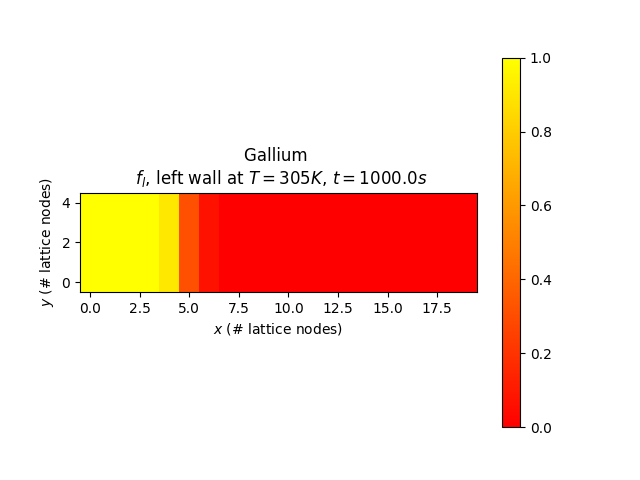
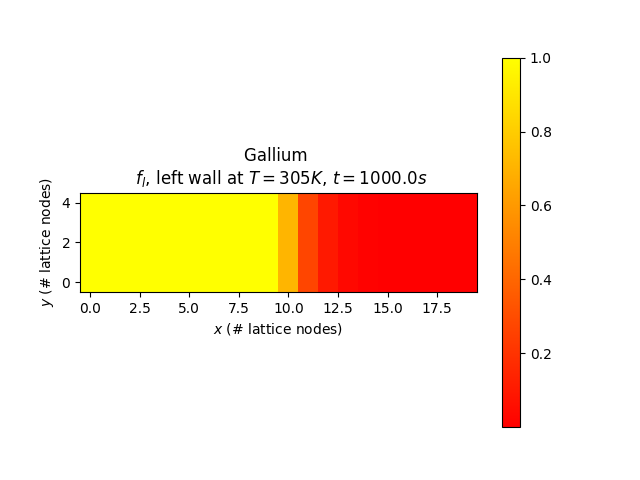
Commit 1 23apr

Changed region(s): [[0.2812, 0.4062, 0.5312, 0.625], [0.8125, 0.875, 0.875, 0.9062]]

diff --git a/hsource_stefan_fd_only.py b/hsource_stefan_fd_only.py
@@ -10,7 +10,7 @@ from numba import njit, jit
 np.set_printoptions(threshold=sys.maxsize)
 pd.set_option("display.max_rows", None, "display.max_columns", None)
 pd.set_option('display.expand_frame_repr', False)
-folder_nr = 'test2'
+folder_nr = '1d_stefan'
 
 # Define constants
 # # Physical parameters water
@@ -35,8 +35,8 @@ folder_nr = 'test2'
 # umax = np.sqrt(g * beta * (T_H - T0) * L)           # Maximal velocity
 
 # Physical parameters gallium
-Time = 1080         # (s)
-L = 0.0889             # Length of cavity (m)
+Time = 1000         # (s)
+L = 0.01             # Length of cavity (m)
 H = 0.714*L      # Height of cavity (m)
 g = 9.81            # Gravitational acceleration (m/s^2)
 rho0 = 6.093e3      # Density (kg/m^3)
@@ -47,13 +47,14 @@ beta = 1.2e-4       # Thermal expansion (1/K)
 Lat = 8.016e5       # Latent heat (J/kg)
 c_p = 381           # Specific heat (J/(kgK))
 alpha = lbda / (rho0 * c_p)     # Thermal diffusivity (m^2/s)
+print("a", alpha)
 Tm = 302.8          # Melting point (K)
 
 # Domain parameters
-T0 = 301.3          # Starting temperature (K)
-T_H = 311           # Hot wall temperature (K)
-T_C = 301.3         # Hot wall temperature (K)
-epsilon = 0.05 * (T_H - T_C)  # Width mushy zone (K)
+T0 = 302.67          # Starting temperature (K)
+T_H = 305           # Hot wall temperature (K)
+T_C = 301.3         # Cold wall temperature (K)
+epsilon = 0.05 * (T_H - Tm) # 0.05 * (T_H - T_C)  # Width mushy zone (K)
 umax = np.sqrt(g * beta * (T_H - T0) * H)           # Maximal velocity
 print(umax)
 
@@ -66,10 +67,10 @@ Ma = 0.1                                            # Mach number
 
 # Choose simulation parameters
 Lambda = 1/4        # Magic parameter
-tau_plus = 0.5005     # Even relaxation time
+tau_plus = 0.51     # Even relaxation time
 rho0_sim = 1        # Starting simulation density
 Nx = 20             # Nodes in y-direction
-Ny = np.int(0.714*Nx)
+Ny = 5 #np.int(0.714*Nx)
 
 dx_sim = 1          # simulation length
 dt_sim = 1          # simulation time
@@ -123,6 +124,9 @@ c_app = c_p * np.ones(dim)
 # Temperature BCS
 T_dim_H = np.ones(Ny+2) * beta * (T_H - T0)
 T_dim_C = np.ones(Ny+2) * beta * (T_C - T0)
+
+# 1D Stefan problem
+xi = 0.02286148
 
 def easy_view(nr, arr):
     idx = ["idx" for i in arr[1, :]]
@@ -182,6 +186,16 @@ def force_source(ux, uy, F):
 
     return Si
 
+# @jit
+# def energy_eq(i, j, T, ux, uy, f_l_iter, f_l):
+#     T_new = (1 - 6 * alpha) * T[i, j] + (2 * alpha - ux[i-1, j-1]) * T[i+1, j] \
+#                   + (2 * alpha + ux[i-1, j-1]) * T[i-1, j] + (2 * alpha - uy[i-1, j-1]) * T[i, j+1] \
+#                   + (2 * alpha + uy[i-1, j-1]) * T[i, j-1] + (ux[i-1, j-1] / 4 + uy[i-1, j-1] / 4 - alpha / 2) * T[i+1, j+1] \
+#                   + (-ux[i-1, j-1] / 4 + uy[i-1, j-1] / 4 - alpha / 2) * T[i-1, j+1] + (ux[i-1, j-1] / 4 - uy[i-1, j-1] / 4 - alpha / 2) * T[i+1, j-1] \
+#                   + (-ux[i-1, j-1] / 4 - uy[i-1, j-1] / 4 - alpha / 2) * T[i-1, j-1] - beta * Lat / c_p * (f_l_iter[i-1, j-1] - f_l[i-1, j-1])
+#
+#     return T_new
+
 @jit
 def temperature(T_old, f_l_old, ux_sim, uy_sim, t, T_dim_C, T_dim_H):
     T_new = np.zeros((Nx+2, Ny+2))
@@ -206,14 +220,9 @@ def temperature(T_old, f_l_old, ux_sim, uy_sim, t, T_dim_C, T_dim_H):
             while True:
                 n_iter = 1
                 while True:
-                    # T_new[i, j] = T_old[i, j] - (c_p * dt / (c_app[i-1, j-1] * dx) * (ux[i-1, j-1] * (T_old[i+1, j] - T_old[i-1, j] - 1/4 * (T_old[i+1, j+1] - T_old[i-1, j+1] + T_old[i+1, j-1] - T_old[i-1, j-1])) \
-                    #               + uy[i-1, j-1] * (T_old[i, j+1] - T_old[i, j-1] - 1/4 * (T_old[i+1, j+1] - T_old[i+1, j-1] + T_old[i-1, j+1] - T_old[i-1, j-1]))))\
-                    #               + (lbda * dt / (c_app[i-1, j-1] * rho0 * dx**2)) * (2 * (T_old[i+1, j] + T_old[i-1, j] + T_old[i, j+1] + T_old[i, j-1]) - 1/2 * (T_old[i+1, j+1] + T_old[i-1, j+1] + T_old[i-1, j-1] + T_old[i+1, j-1]) - 6 * T_old[i, j]) \
-                    #               - Lat / c_p * (f_l_iter[i-1, j-1] - f_l_old[i-1, j-1])
-
-                    T_new[i, j] = T_old[i, j] - (c_p * dt / (c_app[i-1, j-1] * dx) * (ux[i-1, j-1] * (T_old[i+1, j] - T_old[i-1, j]) \
-                                  + uy[i-1, j-1] * (T_old[i, j+1] - T_old[i, j-1])))\
-                                  + (lbda * dt / (c_app[i-1, j-1] * rho0 * dx**2)) * (T_old[i+1, j] - 2 * T_old[i, j] + T_old[i-1, j])\
+                    T_new[i, j] = T_old[i, j] - (c_p * dt / (c_app[i-1, j-1] * dx) * (ux[i-1, j-1] * (T_old[i+1, j] - T_old[i-1, j] - 1/4 * (T_old[i+1, j+1] - T_old[i-1, j+1] + T_old[i+1, j-1] - T_old[i-1, j-1])) \
+                                  + uy[i-1, j-1] * (T_old[i, j+1] - T_old[i, j-1] - 1/4 * (T_old[i+1, j+1] - T_old[i+1, j-1] + T_old[i-1, j+1] - T_old[i-1, j-1]))))\
+                                  + (lbda * dt / (c_app[i-1, j-1] * rho0 * dx**2)) * (2 * (T_old[i+1, j] + T_old[i-1, j] + T_old[i, j+1] + T_old[i, j-1]) - 1/2 * (T_old[i+1, j+1] + T_old[i-1, j+1] + T_old[i-1, j-1] + T_old[i+1, j-1]) - 6 * T_old[i, j]) \
                                   - Lat / c_p * (f_l_iter[i-1, j-1] - f_l_old[i-1, j-1])
 
                     T_prime = Ts + (Tl - Ts) * f_l_iter[i-1, j-1]
@@ -235,6 +244,7 @@ def temperature(T_old, f_l_old, ux_sim, uy_sim, t, T_dim_C, T_dim_H):
                     break
                 else:
                     continue
+    # print(np.max(n_iter_arr))
 
     # Ghost nodes
     T_new[1:-1, 0] = 21/23 * T_new[1:-1, 1] + 3/23 * T_new[1:-1, 2] - 1/23 * T_new[1:-1, 3]         # Neumann extrapolation on lower boundary
@@ -243,10 +253,15 @@ def temperature(T_old, f_l_old, ux_sim, uy_sim, t, T_dim_C, T_dim_H):
     T_new[0, :] = 16/5 * T_H - 3 * T_new[1, :] + T_new[2, :] - 1/5 * T_new[3, :]               # Dirichlet extrapolation on left boundary
     # T_new[-1, :] = 16/5 * T_C - 3 * T_new[-2, :] + T_new[-3, :] - 1/5 * T_new[-4, :]           # Dirichlet extrapolation on right boundary
 
-    # if (t > 13500) and (t % 100 == 0):
-    #     print(t)
+    # if t in [0, 1]:
+    #     easy_view(t, f_l_new)
+    #     easy_view(t, T_new)
 
+    if t % 1000 == 0:
+        print(t)
+    #
     T_dim = beta * (T_new - T0)
+    # print(T_dim)
 
     return T_dim, f_l_new
 
@@ -263,118 +278,46 @@ for t in range(Nt):
     ### Forcing
     T_dim_phys = T_dim[1:-1, 1:-1]                                          # Select only physical domain w/out ghost nodes
 
-    F_buoy = - (T_dim[1:-1, 1:-1, None] - np.mean(T_dim_phys)) * g_sim          # Calculate buoyancy force
-
-    ### Moment update
-    rho_sim = np.sum(f_plus, axis=2)                                        # Calculate density (even parts due to symmetry)
-
-    B = (1 - f_l_ts) * (tau_plus - 1/2) / (f_l_ts + tau_plus - 1/2)               # Viscosity-dependent solid fraction
-    ux = 1 * (np.sum(f_minus[:, :] * c_i[:, 0], axis=2) / rho_sim + (1 - B[:, :]) / 2 * F_buoy[:, :, 0])    # Calculate x velocity (odd parts due to symmetry)
-    uy = 1 * (np.sum(f_minus[:, :] * c_i[:, 1], axis=2) / rho_sim + (1 - B[:, :]) / 2 * F_buoy[:, :, 1])    # Calculate y velocity (odd parts due to symmetry)
-
-    ux[np.round(B) == 1] = 0                                                # Force velocity in solid to zero
-    uy[B == 1] = 0
-
-    ux_T = 1 * (np.sum(f_minus[:, :] * c_i[:, 0], axis=2) / rho_sim)    # Calculate x velocity (odd parts due to symmetry)
-    uy_T = 1 * (np.sum(f_minus[:, :] * c_i[:, 1], axis=2) / rho_sim)    # Calculate y velocity (odd parts due to symmetry)
-
-    ux_T[np.round(B) == 1] = 0                                                # Force velocity in solid to zero
-    uy_T[B == 1] = 0
+    ux = 0 * T_dim_phys    # Calculate x velocity (odd parts due to symmetry)
+    uy = 0 * T_dim_phys   # Calculate y velocity (odd parts due to symmetry)
 
     ### Temperature
-    T_dim, f_l_ts = temperature(T_dim, f_l_ts, ux_T, uy_T, t, T_dim_C, T_dim_H)                   # Calculate temperature and liquid fraction
+    T_dim, f_l_ts = temperature(T_dim, f_l_ts, ux, uy, t, T_dim_C, T_dim_H)                   # Calculate temperature and liquid fraction
 
-    ### Equilibrium
-    f_eq_plus, f_eq_minus = f_equilibrium(w_i, rho_sim, ux, uy, c_i, q, c_s)                                # Calculate new equilibrium distribution
+    ### Plots
+    if (t % 1000 == 0):
+        temp = t * Time / Nt
+        t_phys.append(temp)
 
-    ### Source
-    Si = force_source(ux, uy, F_buoy)                      # Calculate source term
-    Bi = np.repeat(B[:, :, np.newaxis], q, axis=2)                          # Repeat B in all directions to make next calc possible
+        Xt = 2 * xi * np.sqrt(alpha * temp)
+        X_th.append(Xt)
 
-    ### Collision
-    f_star = f_plus * (1 - (1-Bi) / tau_plus) + f_minus * (1 - 2*Bi - (1-Bi) / tau_minus) + f_eq_plus * (1-Bi) / tau_plus + f_eq_minus * (1-Bi) / tau_minus + Si * (1-Bi)
+        # easy_view(1, f_l_ts)
+        # easy_view(2, T_dim / beta + T0)
+        half_f_l = np.abs(f_l_ts[:, 2] - 0.5)
+        idx = half_f_l.argmin()
+        Xt_sim = (idx + 0.5) / Nx * L
+        X_sim.append(Xt_sim)
 
-    ### Streaming
-    f_plus, f_minus = streaming(Nx, Ny, f_plus, f_minus, f_star)
-
-    if t % 2500 == 0:
-        print(t)
-
-    # ### Plots
-    if (t % 15000 == 0):
-        ### Moment update
-        rho_sim = np.sum(f_plus, axis=2)                                        # Calculate density (even parts due to symmetry)
-
-        B = (1 - f_l_ts) * (tau_plus - 1/2) / (f_l_ts + tau_plus - 1/2)               # Viscosity-dependent solid fraction
-        ux = 1 * (np.sum(f_minus[:, :] * c_i[:, 0], axis=2) / rho_sim)    # Calculate x velocity (odd parts due to symmetry)
-        uy = 1 * (np.sum(f_minus[:, :] * c_i[:, 1], axis=2) / rho_sim)    # Calculate y velocity (odd parts due to symmetry)
-
-        ux[np.round(B) == 1] = 0                                                # Force velocity in solid to zero
-        uy[B == 1] = 0
-
-        T = T_dim / beta + T0
-
-        easy_view(t, T)
-        easy_view(t, f_l_ts)
-        easy_view(t, uy)
-
-        # Liquid fraction
-        plt.figure()
-        plt.imshow(f_l_ts.T, cmap=cm.autumn, origin='lower', aspect=1.0)
-        plt.xlabel('$x$ (# lattice nodes)')
-        plt.ylabel('$y$ (# lattice nodes)')
-        plt.title(f'Gallium \n $f_l$, left wall at $T={T_H}K$, $t={np.round(t/Nt*Time, decimals=2)}s$')
-        plt.colorbar()
-        plt.savefig(f"Figures/hsource_trt-fsm_sq_cav/{folder_nr}/heatmap_fl_t={np.round(t/Nt*Time, decimals=2)}_N{Ny}_test.png")
-
-        # Velocities
-        plt.figure()
-        plt.clf()
-        plt.imshow(np.flip(uy, axis=1).T, cmap=cm.Blues)
-        plt.xlabel('$x$ (# lattice nodes)')
-        plt.ylabel('$y$ (# lattice nodes)')
-        plt.title(f'Gallium \n $u_y$, left wall at $T={T_H}K$, $t={np.round(t/Nt*Time, decimals=2)}s$')
-        plt.colorbar()
-        plt.savefig(f"Figures/hsource_trt-fsm_sq_cav/{folder_nr}/heatmap_uy_t={np.round(t/Nt*Time, decimals=2)}_N{Ny}_test.png")
-
-        # plt.figure()
-        # plt.clf()
-        # plt.imshow(ux.T, cmap=cm.Blues, origin='lower')
-        # plt.xlabel('$x$ (# lattice nodes)')
-        # plt.ylabel('$y$ (# lattice nodes)')
-        # plt.title(f'Gallium \n $u_x$, left wall at $T={T_H}K$, $t={np.round(t/Nt*Time, decimals=2)}s$')
-        # plt.colorbar()
-        # plt.savefig(f"Figures/hsource_trt-fsm_sq_cav/{folder_nr}/heatmap_ux_t={np.round(t/Nt*Time, decimals=3)}_N{Ny}_test.png")
-
-        # ## Temperature heatmap
-        # plt.figure()
-        # plt.clf()
-        # plt.imshow(np.flip(T[1:-1, 1:-1].T, axis=0), cmap=cm.Blues)
-        # plt.xlabel('$x$ (# lattice nodes)')
-        # plt.ylabel('$y$ (# lattice nodes)')
-        # plt.title(f'Gallium \n $T$, left wall at $T={T_H}K$, $t={np.round(t/Nt*Time, decimals=2)}s$')
-        # plt.colorbar()
-        # plt.savefig(f"Figures/hsource_trt-fsm_sq_cav/{folder_nr}/heatmap_T_t={np.round(t/Nt*Time, decimals=3)}_N{Ny}_test.png")
-
-        # plt.figure()
-        # plt.clf()
-        # plt.imshow(np.flip(rho_sim, axis=1).T, cmap=cm.Blues)
-        # plt.xlabel('$x$ (# lattice nodes)')
-        # plt.ylabel('$y$ (# lattice nodes)')
-        # plt.title(f'$\\rho$ in cavity with left wall at $T={T_H}K$')
-        # plt.colorbar()
-        # plt.savefig(f"Figures/hsource_trt-fsm_sq_cav/{folder_nr}/heatmap_rho_time{Time}_t={np.round(t/Nt*Time, decimals=3)}.png")
-
-        # Vector plot
-        plt.figure()
-        plt.quiver(Cu*ux.T, Cu*uy.T)
-        plt.xlabel('$x$ (# lattice nodes)')
-        plt.ylabel('$y$ (# lattice nodes)')
-        plt.title(f'Gallium \n $u$ in pipe with left wall at $T={T_H}K$, $t={np.round(t/Nt*Time, decimals=2)}s$')
-        # plt.legend('Velocity vector')
-        plt.savefig(f"Figures/hsource_trt-fsm_sq_cav/{folder_nr}/arrowplot_t={np.round(t/Nt*Time, decimals=3)}_N{Ny}_test.png")
-
-        plt.close('all')
+    # if t % 20000 == 0:
+    #     plt.figure()
+    #     plt.imshow(f_l_ts.T, cmap=cm.autumn, origin='lower', aspect=1.0)
+    #     plt.xlabel('$x$ (# lattice nodes)')
+    #     plt.ylabel('$y$ (# lattice nodes)')
+    #     plt.title(f'Gallium \n $f_l$, left wall at $T={T_H}K$, $t={np.round(t/Nt*Time, decimals=2)}s$')
+    #     plt.colorbar()
+    #     plt.savefig(f"Figures/hsource_trt-fsm_sq_cav/{folder_nr}/x_pos_t={np.round(t/Nt*Time, decimals=2)}_N{Nx}_test.png")
+    #
+    #     T = T_dim / beta + T0
+    #
+    #     plt.figure()
+    #     plt.clf()
+    #     plt.imshow(np.flip(T[1:-1, 1:-1].T, axis=0), cmap=cm.Blues)
+    #     plt.xlabel('$x$ (# lattice nodes)')
+    #     plt.ylabel('$y$ (# lattice nodes)')
+    #     plt.title(f'Gallium \n $T$, left wall at $T={T_H}K$, $t={np.round(t/Nt*Time, decimals=2)}s$')
+    #     plt.colorbar()
+    #     plt.savefig(f"Figures/hsource_trt-fsm_sq_cav/{folder_nr}/heatmap_T_t={np.round(t/Nt*Time, decimals=3)}_N{Ny}.png")
 
 
 # Make arrays from lists
@@ -387,7 +330,7 @@ plt.plot(X_sim, t_phys)
 plt.xlabel('$x$ (m)')
 plt.ylabel('$t$ (s)')
 plt.title(f'Gallium \n Position of melting front, left wall at $T={T_H}K$, $t={np.round(t/Nt*Time, decimals=2)}s$')
-plt.savefig(f"Figures/hsource_trt-fsm_sq_cav/{folder_nr}/x_pos_t={np.round(t/Nt*Time, decimals=2)}_N{Nx}_adv_form.png")
+plt.savefig(f"Figures/hsource_trt-fsm_sq_cav/{folder_nr}/x_pos_t={np.round(t/Nt*Time, decimals=2)}_N{Nx}_10-6_acc.png")
 
 # Liquid fraction
 plt.figure()
@@ -396,7 +339,7 @@ plt.xlabel('$x$ (# lattice nodes)')
 plt.ylabel('$y$ (# lattice nodes)')
 plt.title(f'Gallium \n $f_l$, left wall at $T={T_H}K$, $t={np.round(t/Nt*Time, decimals=2)}s$')
 plt.colorbar()
-plt.savefig(f"Figures/hsource_trt-fsm_sq_cav/{folder_nr}/heatmap_fl_t={np.round(t/Nt*Time, decimals=2)}_N{Nx}_adv_form.png")
+plt.savefig(f"Figures/hsource_trt-fsm_sq_cav/{folder_nr}/heatmap_fl_t={np.round(t/Nt*Time, decimals=2)}_N{Nx}_10-6_acc.png")
 
 stop = time.time()
 print(stop-start)

diff --git a/Tlinear_sq_cav.py b/Tlinear_sq_cav.py
@@ -65,7 +65,7 @@ Ma = 0.1                                            # Mach number
 
 # Choose simulation parameters
 Lambda = 1/4        # Magic parameter
-tau_plus = 0.501     # Even relaxation time
+tau_plus = 0.5005     # Even relaxation time
 rho0_sim = 1        # Starting simulation density
 Nx = 40             # Nodes in y-direction
 Ny = np.int(0.714*Nx)
@@ -554,8 +554,8 @@ for t in range(Nt):
     ux = 1 * (np.sum(f_minus[:, :] * c_i[:, 0], axis=2) / rho_sim + (1 - B[:, :]) / 2 * F_buoy[:, :, 0])    # Calculate x velocity (odd parts due to symmetry)
     uy = 1 * (np.sum(f_minus[:, :] * c_i[:, 1], axis=2) / rho_sim + (1 - B[:, :]) / 2 * F_buoy[:, :, 1])    # Calculate y velocity (odd parts due to symmetry)
 
-    ux[np.round(B) == 1] = 0                                                # Force velocity in solid to zero
-    uy[B == 1] = 0
+    # ux[np.round(B) == 1] = 0                                                # Force velocity in solid to zero
+    # uy[B == 1] = 0
 
     ### Temperature
     ux_T = 1 * (np.sum(f_minus[:, :] * c_i[:, 0], axis=2) / rho_sim)    # Calculate x velocity (odd parts due to symmetry)

diff --git a/optimize.py b/optimize.py
@@ -4,7 +4,7 @@ import math
 
 c_p = 381           # Specific heat (J/(kgK))
 Tm = 302.8          # Melting point (K)
-T_H = 305           # Hot wall temperature (K)
+T_H = 311           # Hot wall temperature (K)
 Lat = 8.016e5       # Latent heat (J/kg)
 
 St_l = c_p * (T_H - Tm) / Lat
